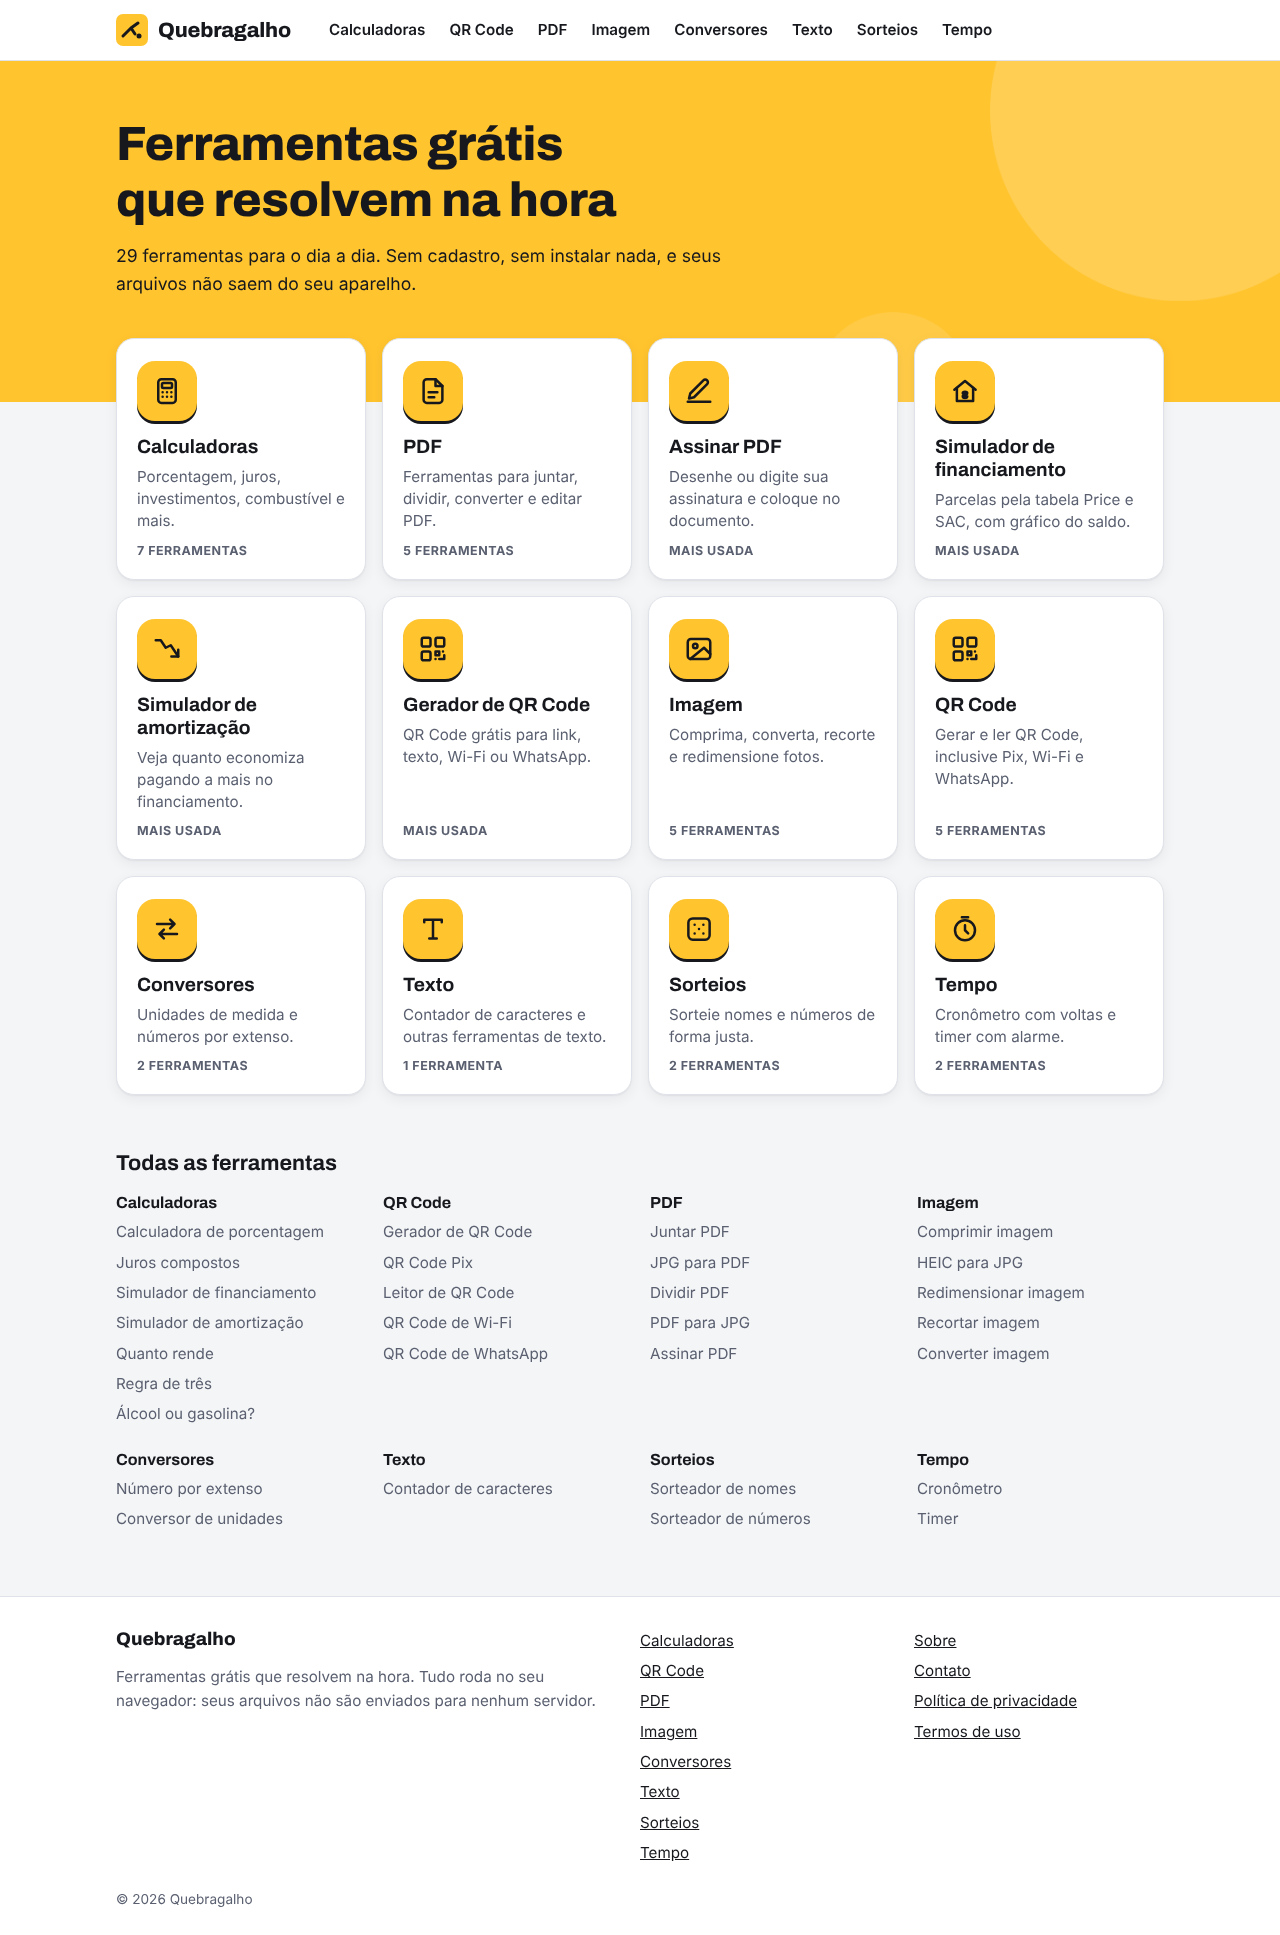
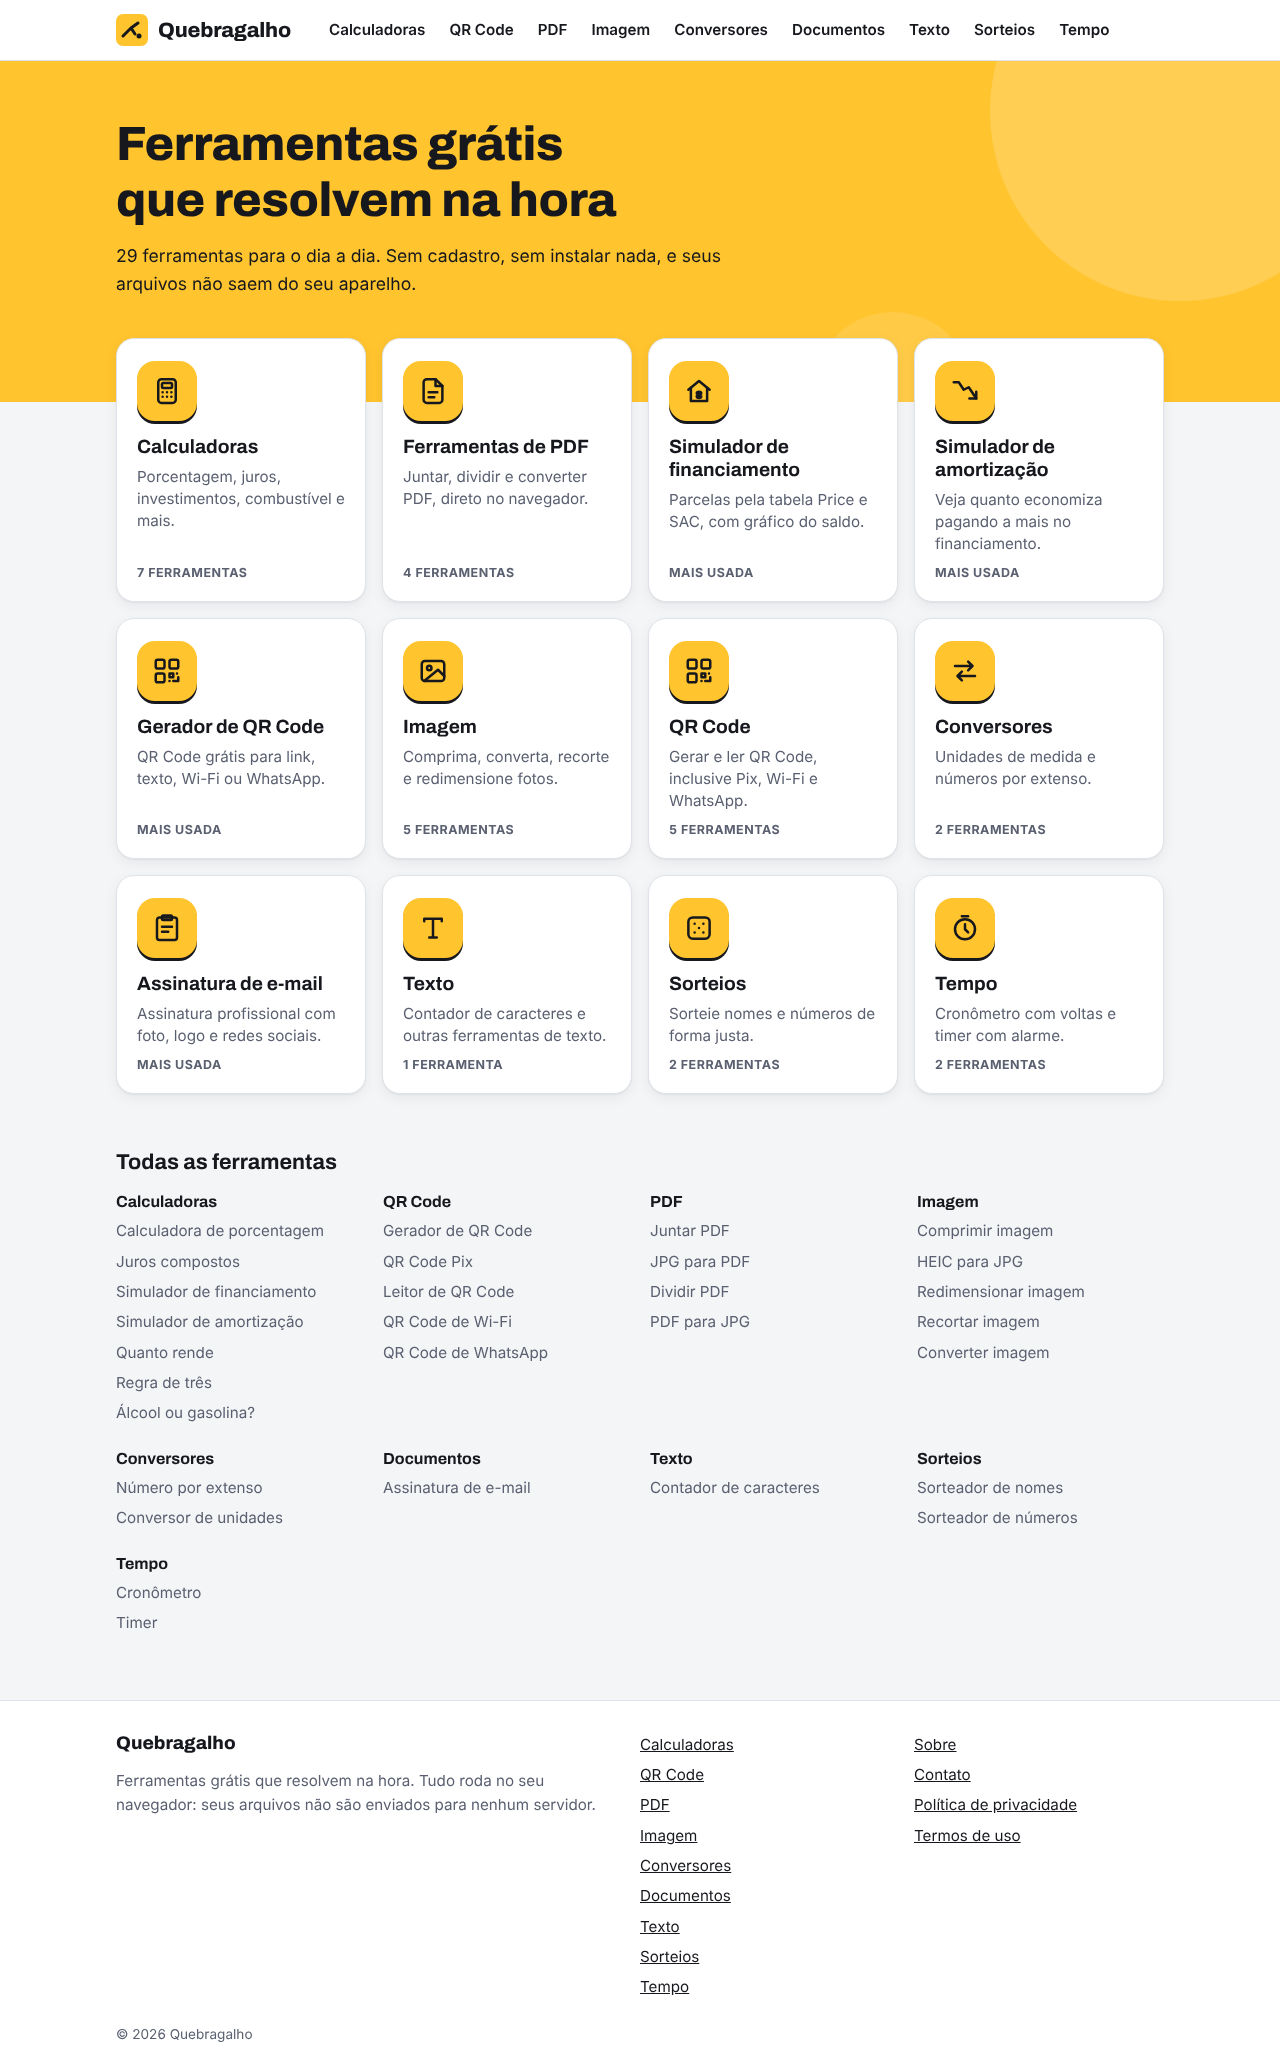
Página inicial: um bloco só para PDF
Sai o bloco 'Juntar PDF', que repetia a seção. O bloco da seção passa a se chamar
'Ferramentas de PDF' (destaques.ts aceita nome próprio). Volta o bloco Texto para
manter a grade completa.

Claude-Session: https://claude.ai/code/session_019WSkquKvYqrnJggS338TJo

diff --git a/src/data/destaques.ts b/src/data/destaques.ts
@@ -3,13 +3,12 @@
 // Só aparecem se a seção tiver ferramenta pronta / se a ferramenta estiver pronta.
 
 export type Destaque =
-  | { tipo: 'secao'; slug: string; descricao: string }
+  | { tipo: 'secao'; slug: string; descricao: string; /** Nome no bloco, se diferente do nome da seção. */ nome?: string }
   | { tipo: 'ferramenta'; secao: string; slug: string; icone: string; descricao: string };
 
 export const DESTAQUES: Destaque[] = [
   { tipo: 'secao', slug: 'calculadoras', descricao: 'Porcentagem, juros, investimentos, combustível e mais.' },
-  { tipo: 'secao', slug: 'pdf', descricao: 'Ferramentas para juntar, dividir, converter e editar PDF.' },
-  { tipo: 'ferramenta', secao: 'pdf', slug: 'juntar-pdf', icone: 'juntar', descricao: 'Una vários PDFs em um só arquivo, na ordem que quiser.' },
+  { tipo: 'secao', slug: 'pdf', nome: 'Ferramentas de PDF', descricao: 'Juntar, dividir e converter PDF, direto no navegador.' },
   { tipo: 'ferramenta', secao: 'calculadoras', slug: 'financiamento', icone: 'financiamento', descricao: 'Parcelas pela tabela Price e SAC, com gráfico do saldo.' },
   { tipo: 'ferramenta', secao: 'calculadoras', slug: 'amortizacao', icone: 'amortizacao', descricao: 'Veja quanto economiza pagando a mais no financiamento.' },
   { tipo: 'ferramenta', secao: 'qr-code', slug: 'gerador', icone: 'qr-code', descricao: 'QR Code grátis para link, texto, Wi-Fi ou WhatsApp.' },
@@ -17,6 +16,7 @@ export const DESTAQUES: Destaque[] = [
   { tipo: 'secao', slug: 'qr-code', descricao: 'Gerar e ler QR Code, inclusive Pix, Wi-Fi e WhatsApp.' },
   { tipo: 'secao', slug: 'conversores', descricao: 'Unidades de medida e números por extenso.' },
   { tipo: 'ferramenta', secao: 'documentos', slug: 'assinatura-de-email', icone: 'documentos', descricao: 'Assinatura profissional com foto, logo e redes sociais.' },
+  { tipo: 'secao', slug: 'texto', descricao: 'Contador de caracteres e outras ferramentas de texto.' },
   { tipo: 'secao', slug: 'sorteios', descricao: 'Sorteie nomes e números de forma justa.' },
   { tipo: 'secao', slug: 'tempo', descricao: 'Cronômetro com voltas e timer com alarme.' },
 ];
